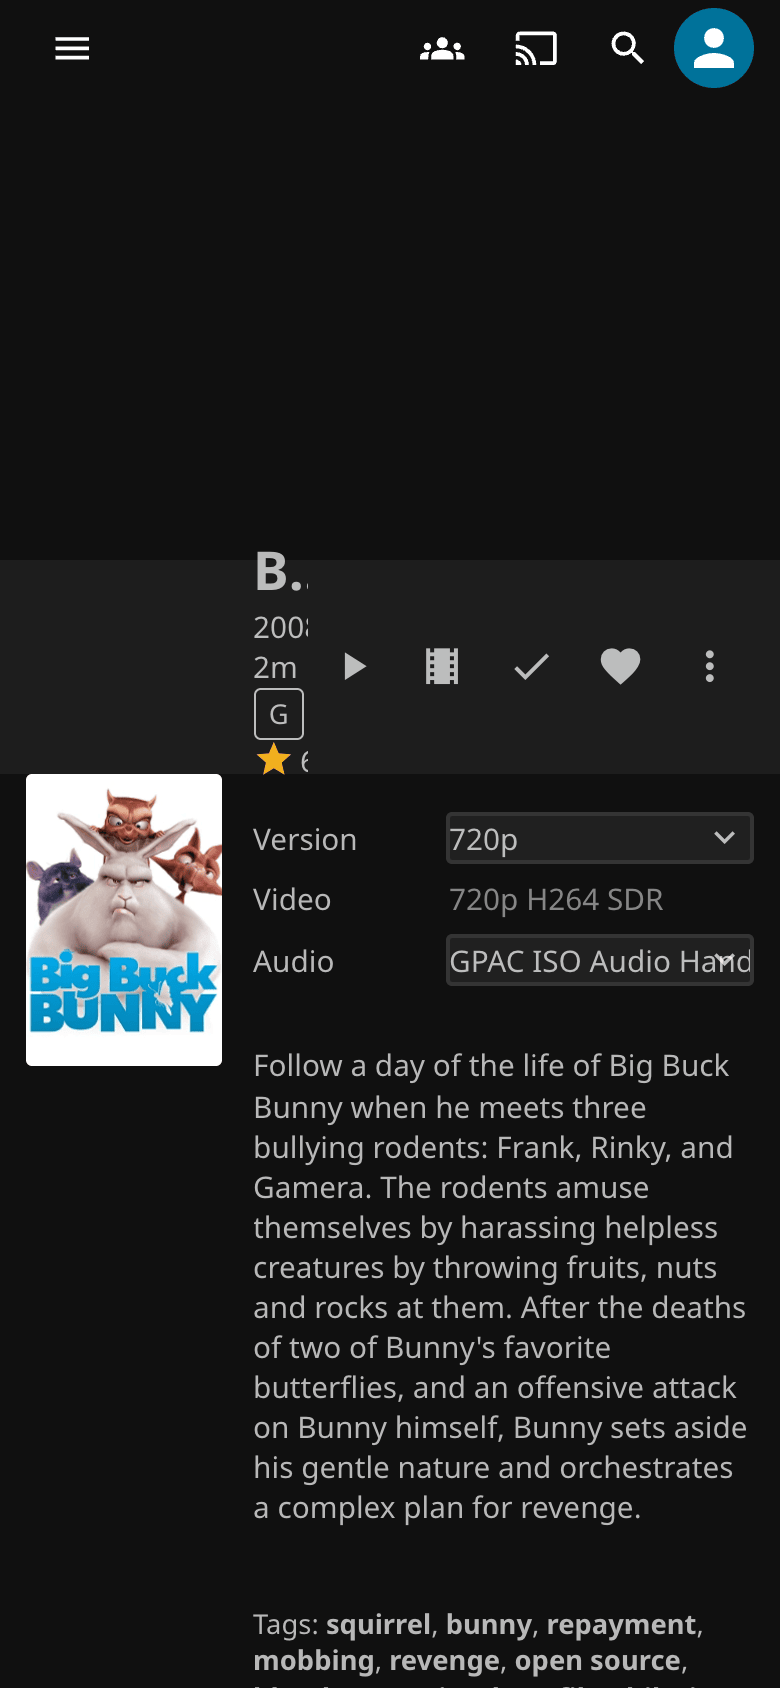
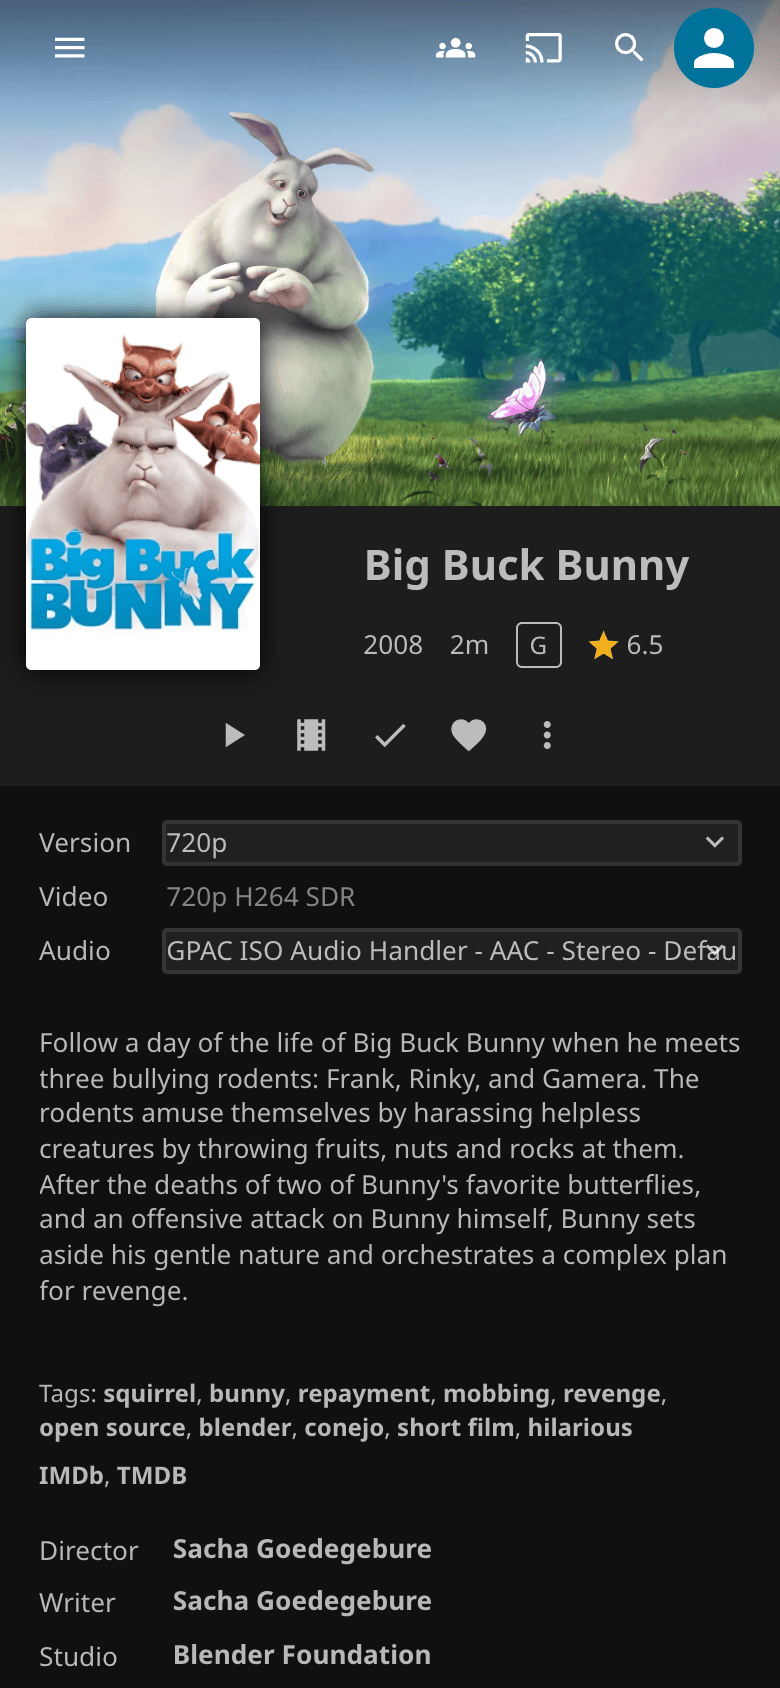
docs: retake the phone screenshot in Jellyfin's mobile layout
The phone shot was taken with a desktop user agent, so jellyfin-web
rendered the desktop detail page squeezed into 390 px: the title was
clipped and the backdrop never loaded. Retaken with a phone user agent;
the page now shows the backdrop, the full title and the Version select
reading 720p. The README alt text now says the select is set to 720p,
which is what the closed select shows.

diff --git a/README.md b/README.md
@@ -15,7 +15,7 @@
 **quality-gate-encoder** watches a Jellyfin library and adds a 720p copy beside every film and episode, so phones and remote viewers direct play the copy instead of making the server transcode live for each stream. It runs as a Docker container on Linux, encodes on an Intel or NVIDIA GPU or in software, leaves the original file untouched, and Jellyfin lists the copy as a second version of the same title. The [Quality Gate](https://github.com/GeiserX/quality-gate) plugin is optional: it caps chosen users at the 720p copy and tells the encoder which titles to make first.
 
 <p align="center">
-  <img src="https://raw.githubusercontent.com/GeiserX/quality-gate-encoder/main/docs/images/screenshots/jellyfin-versions.png" alt="A film's page in Jellyfin after the encoder ran: the Version menu offers the original and the 720p copy, and the video line below reads 720p H264" width="900">
+  <img src="https://raw.githubusercontent.com/GeiserX/quality-gate-encoder/main/docs/images/screenshots/jellyfin-versions.png" alt="A film's page in Jellyfin after the encoder ran: the Version menu is set to 720p and the video line below reads 720p H264" width="900">
 </p>
 
 ## Features
